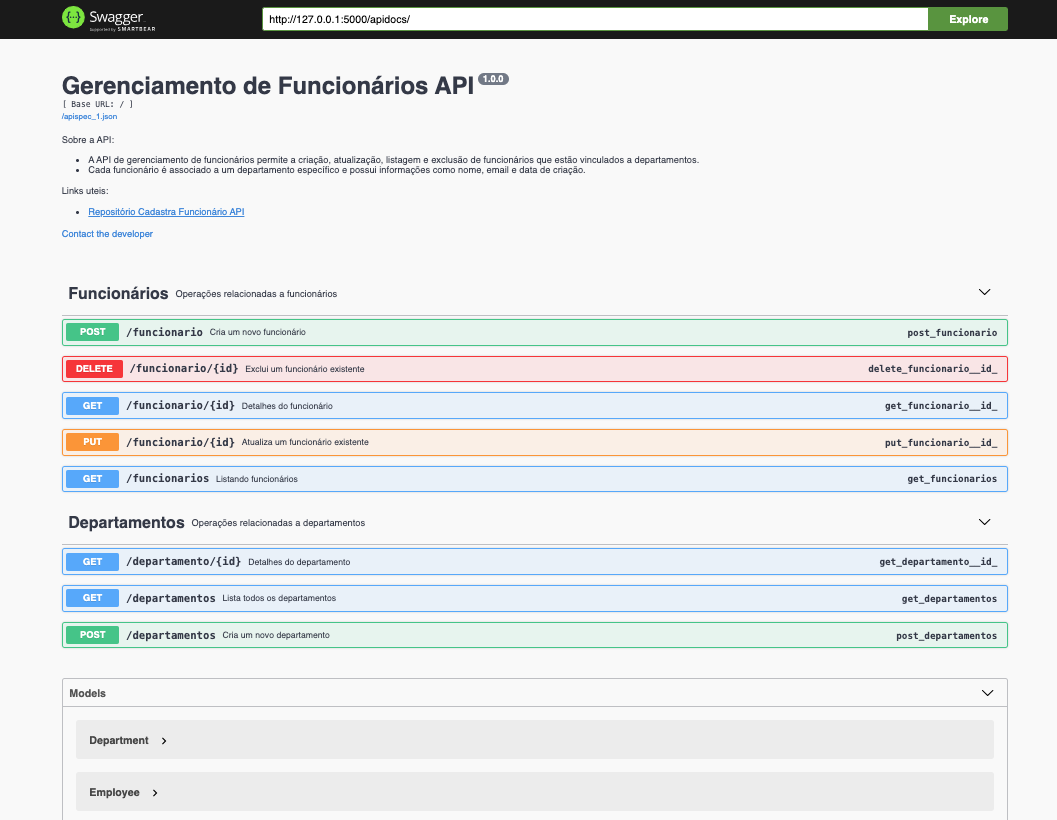
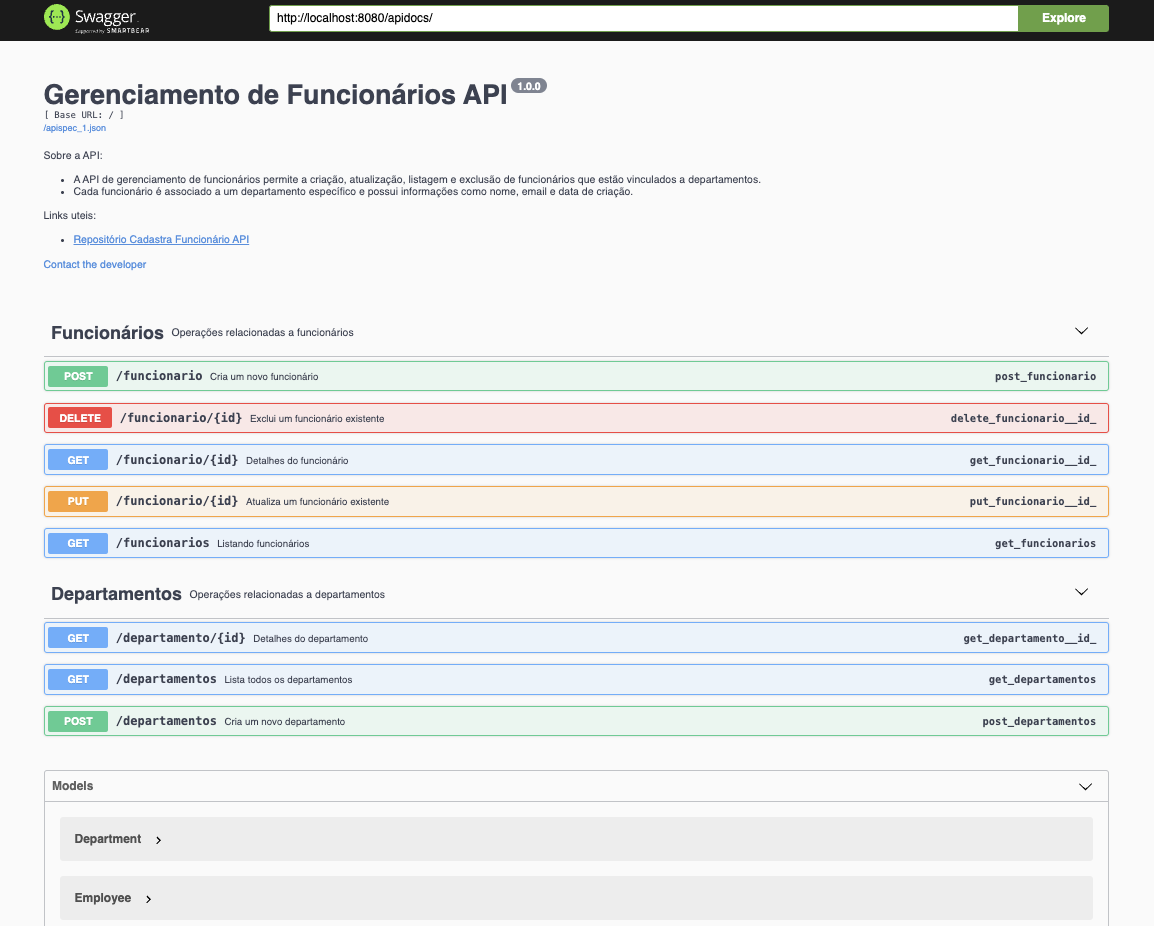
Gerando Docker para a API

diff --git a/app.py b/app.py
@@ -259,4 +259,4 @@ def is_valid_email(email):
 
 
 if __name__ == "__main__":
-    app.run(debug=True)
+    app.run(host='0.0.0.0',port=8080, debug=True)

diff --git a/README-SQL-INFO.md b/README-SQL-INFO.md
@@ -1,12 +1,20 @@
-# Detalhamento técnico sobre API e Banco
-## Configuração, criação e carga inicial de dados
-- Configuração:
+# Detalhamento técnico sobre API e Banco 
+
+- ## Criando o banco:
+    - O banco é criado através do site [ElephantSQL](https://www.elephantsql.com/)
+    - *Obs.: O site sera encerrado em 2025, fique atento!*
+        - `ElephantSQL is reaching its end of life by January 27, 2025. Consider using another provider.`
+        
+    - Após criar a instanciância do banco, copie a URL gerada.
+        - ![elephantsql](./images/elephantsql.png)
+
+- ## Configuração:
     - Toda configuração para acesso ao banco de dados se encontra no arquivo .env ( criado no passo anteriormente e com a palavra `postgres` alterada para `postgresql` )
         ```shell
         // arquivo .env
-        SQLALCHEMY_DATABASE_URI=postgresql://zdrxdzqw:ME10bkAcv78-0fQsibLtcyg5bEfxm5nl@raja.db.elephantsql.com/zdrxdzqw
+        SQLALCHEMY_DATABASE_URI=postgresql://ohwoybzy:nHQcVRDbZk7-DowwTfNqs0ncPEvflpCZ@drona.db.elephantsql.com/ohwoybzy
         ```
-- Criação:
+- ## Criação e correlacionamento das tabelas:
     - A criação das tabelas ocorre no momento da execução da api
     - Para toda vez que a aplicação é iniciada a seguinte ordem é executada:
         - Exclusão de todas as tabelas
@@ -35,7 +43,7 @@
             department = db.relationship("Department", backref=db.backref("employees", lazy=True))
         ```
 
-- Carga Inicial de Dados
+- ## Carga inicial de dados
     - Carga inicial para Departamentos
         ```python
         // arquivo models.py

diff --git a/README.md b/README.md
@@ -52,7 +52,7 @@ python3 -m venv .venv
     ```
 - Url para acesso a api
 
-    - http://127.0.0.1:5000/
+    - http://localhost:8080/
 
 ## Configuração, criação e carga inicial de dados
 - Configuração:
@@ -78,16 +78,22 @@ python3 -m venv .venv
 
         # ... some code here
         ```
-- Detalhamento técnico
-    - Acesse em [Detalhamento técnico sobre API e Banco](https://github.com/angelozero/backend/blob/main/README-SQL-INFO.md)
+- Para mais informações e detalhamentos técnicos
+    - Acesse o arquivo [README-SQL-INFO](https://github.com/angelozero/backend/blob/main/README-SQL-INFO.md)
 
 ## Swagger
-- Acessem em http://127.0.0.1:5000/apidocs/
+- Acessem em http://localhost:8080/apidocs/
     ![swagger](./images/swagger.png)
 
 ## Postman
 - Importar para dentro do postman o arquivo `postman_collection.json`
 ![postman](./images/postman.png)
+
+## Docker
+- Baixar a imagem [angelozero/backend-py](https://hub.docker.com/repository/docker/angelozero/backend-py/general)
+- Executar o comando 
+    - `docker run -p 8080:8080 -e SQLALCHEMY_DATABASE_URI=ELEPHANT_SQL_URL angelozero/backend-py`
+- Acesse o arquivo [README-DOCKER](https://github.com/angelozero/backend/blob/main/README-DOCKER.md) para mais informações de como baixar e executar a api via docker.
 
 ## Documentação das dependências utilizadas
 

diff --git a/README-DOCKER.md b/README-DOCKER.md
@@ -1,0 +1,16 @@
+# Docker Backend
+- Instale [Docker Desktop](https://docs.docker.com/get-docker/)
+- Se caso seu sistema operacional for M1 MacBook Pro Sonoma Version e este erro estiver acontecendo `Another application changed your Desktop configurations`
+    ```shell
+        # Resposta do usuario jme1973 com a solucão: 
+        #    This fixed it for me:
+        #    ln -sf /Applications/Docker.app/Contents/Resources/bin/docker-credential-ecr-login /usr/local/bin/docker-credential-ecr-login
+
+        #    M1 MacBook Pro
+        #    Sonoma Version 14.3 (23D56)
+        #    Docker 4.28.0 (139021)
+    ```
+    - *Fonte: [Issue: Another application changed your Desktop configurations](https://github.com/docker/for-mac/issues/7109)*
+- O repositório se encontra em [Docker Hub angelozero/backend-py](https://hub.docker.com/repository/docker/angelozero/backend-py/general)
+- Para executar digite `docker run -p 8080:8080 -e SQLALCHEMY_DATABASE_URI=ELEPHANT_SQL_URL angelozero/backend-py`
+    - Lembre-se de alterar `ELEPHANT_SQL_URL` para a url gerada em [ElephantSQL](https://www.elephantsql.com/) e não se esqueça de alterar a url criadada de `postgres://...` para `postgresql://...`
